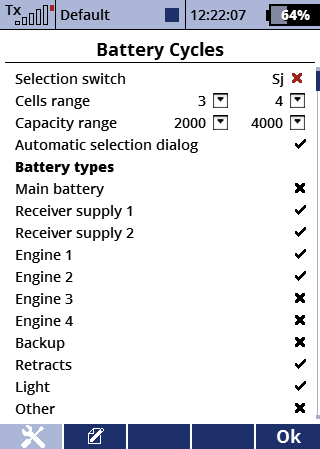
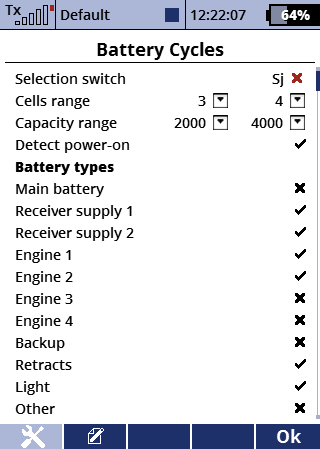
bugfixes

Changed region(s): [[0.0312, 0.3118, 0.625, 0.343]]

diff --git a/repository/doc/BattCycles-de.html b/repository/doc/BattCycles-de.html
@@ -17,7 +17,7 @@ Der folgende Auswahldialog kann automatisch beim Einschalten des Modells angezei
   <ul>
     <li><b>Auswahlschalter:</b> mit diesem Schalter kann der Auswahldialog manuell angezeigt werden</li>
     <li><b>Zellen- und Kapazitätsbereich:</b> modellspezifische Filterwerte, um die Anzahl der auswählbaren Akkus zu verringern</li>
-    <li><b>Automatischer Auswahldialog:</b> wenn dieses ausgewählt ist und das Modell eingeschaltet wird, öffnet sich der Auswahldialog automatisch</li>
+    <li><b>Einschalten erkenn:</b> wenn dieses ausgewählt ist und das Modell eingeschaltet wird, öffnet sich der Auswahldialog automatisch</li>
     <li><b>Akkutypen:</b> Auswahl der Akkutypen, die im gewählten Modell vorkommen. Nur die ausgewählten Kategorien werden später abgefragt.</li>
   </ul>
   <p><img src="img/battcycles1.png"/></p>

diff --git a/repository/doc/BattCycles-en.html b/repository/doc/BattCycles-en.html
@@ -16,7 +16,7 @@ The dialog below can be shown automatically when the model is turned on and via 
   <ul>
     <li><b>Selection switch:</b> this switch can be used to manually show the selection dialog</li>
     <li><b>Cells/capacity range:</b> model-specific filtering parameters to shorten the list of viable batteries that are selectable in the list</li>
-    <li><b>Automatic selection dialog:</b> if checked, the selection dialog shows up automatically when the model is turned on</li>
+    <li><b>Detect power-on:</b> if checked, the selection dialog shows up automatically when the model is turned on</li>
     <li><b>Battery types:</b> Select the battery types that are present in your model. Only the checked battery types will be queried later.</li>
   </ul>
   <p><img src="img/battcycles1.png"/></p>
